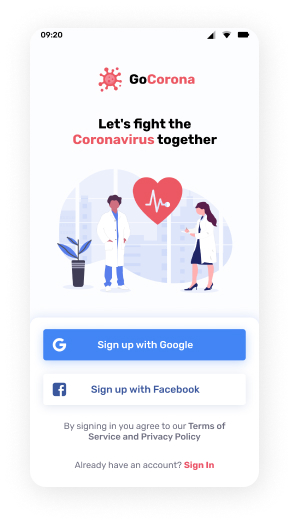
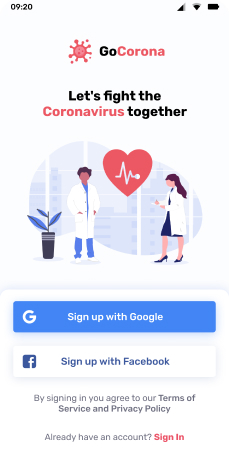
new decor

diff --git a/css/style.css b/css/style.css
@@ -89,6 +89,7 @@ body._lock {
 	line-height: 126%;	
 	font-feature-settings: 'pnum' on, 'lnum' on;
 	color: #000000;
+	margin-bottom: 12px;
 }
 .text {
 	font-family: 'Rubik';
@@ -99,6 +100,7 @@ body._lock {
 	letter-spacing: 0.08em;
 	font-feature-settings: 'pnum' on, 'lnum' on;
 	color: #616161;
+	margin-bottom: 24px;
 }
 
 /* ------------------------- */
@@ -254,12 +256,6 @@ body._lock {
 	min-width: 403px;
 	max-width: 403px;
 }
-.take-care__title {
-	margin-bottom: 12px;
-}
-.take-care__text {
-	margin-bottom: 24px;
-}
 .take-care__image {
 	z-index: 5;
 	text-align: center;
@@ -316,13 +312,179 @@ body._lock {
 	.take-care__container::before {
 		display: none;
 	}
-}
-@media (max-width:480px) {
 	.take-care__info {
 		min-width: 100%;
 		max-width: 100%;
 	}
+}
+@media (max-width:480px) {
 	.take-care__container {
-		padding: 84px 10px 54px 10px;
+		padding: 84px 10px 45px 10px;
+	}
+}
+
+/* -------------------------------- */
+
+.stay-safe {
+	padding: 135px 0 94px 0;
+}
+.stay-safe__container {
+	display: flex;
+	align-items: center;
+	justify-content: space-around;
+	gap: 71px;
+}
+
+.stay-safe__app {
+	position: relative;
+	margin-left: 71px;
+}
+.stay-safe__app img {
+	filter: drop-shadow(2px 4px 32px rgba(0, 0, 0, 0.12));
+	border-radius: 16px;
+}
+.stay-safe__decor {
+	position: absolute;
+	background: #EC5863;
+	border-radius: 30px;
+}
+.stay-safe__decor-1 {
+	width: 77px;
+	height: 77px;
+	left: -39px;
+	bottom: -27px;
+}
+.stay-safe__decor-2 {
+	width: 147px;
+	height: 147px;
+	left: -71px;
+	top: -56px;
+}
+.stay-safe__decor-3 {
+	width: 77px;
+	height: 77px;
+	right: -38px;
+	bottom: 80px;
+}
+.stay-safe__image-shadow {
+	position: absolute;
+	width: 206px;
+	height: 27px;
+	left: 12px;
+	bottom: -12px;
+	background: rgba(240, 240, 240, 0.49);
+	border-radius: 16px;
+}
+.stay-safe__info {
+	min-width: 279px;
+	max-width: 379px;
+}
+@media (max-width: 767px) {
+	.stay-safe__container {
+		flex-wrap: wrap;
+		flex-direction: column;
+		gap: 93px;
+	}
+	.stay-safe__app {
+		position: relative;
+		margin-left: 0px;
+
+	}
+	.stay-safe__info {
+		order: -1;
+		align-self: flex-start;
+		min-width: 100%;
+		max-width: 100%;
+	}
+	.stay-safe {
+		padding: 0 0 75px 0;
+	}
+}
+
+/* ------------------------- */
+
+.experts {
+	padding: 103px 0 116px 0;
+}
+.experts__container {
+}
+.experts__table {
+	margin: 0 auto;
+	position: relative;
+	width: 654px;
+	height: 117px;
+	display: flex;
+	justify-content: space-evenly;
+	align-items: center;
+	box-shadow: 0px 2px 24px rgba(88, 126, 236, 0.15);
+	border-radius: 16px;
+	background-color: #FFF;
+}
+.experts__decor {
+	position: absolute;
+	background: #EC5863;
+	z-index: -1;
+}
+.experts__decor-1 {
+	width: 65.75px;
+	height: 65.75px;
+	left: -24px;
+	bottom: -24px;
+	border-radius: 16px;
+	transform: rotate(-30deg);
+}
+.experts__decor-2 {
+	width: 96.96px;
+	height: 96.96px;
+	left: 209px;
+	top: -42px;
+	border-radius: 30px;
+	transform: rotate(105deg);
+}
+.experts__decor-3 {
+	width: 127.47px;
+	height: 127.47px;
+	right: -55px;
+	top: 0px;
+	border-radius: 30px;
+	transform: rotate(-30deg);
+}
+.table__title {
+	font-family: 'Rubik';
+	font-weight: 700;
+	font-size: 36px;
+	line-height: 43px;
+	letter-spacing: 0.14em;
+	font-feature-settings: 'pnum' on, 'lnum' on;
+	color: #EC5863;
+	margin-bottom: 5px;
+}
+.table__subtitle {
+	font-family: 'Rubik';
+	font-weight: 700;
+	font-size: 11px;
+	line-height: 13px;
+	text-align: center;
+	letter-spacing: 0.37em;
+	text-transform: uppercase;
+	font-feature-settings: 'pnum' on, 'lnum' on;
+	color: #000000;
+}
+.experts__main {
+	margin-top: 79px;
+	display: flex;
+	align-items: center;
+	gap: 70px;
+}
+.experts__video {
+	width: 100%;
+}
+@media (max-width: 767px) {
+	.experts__main {
+		flex-wrap: wrap;
+	}
+	.experts__video {
+		padding: 35px 0;
+		margin: 0 auto;
 	}
 }

diff --git a/index.html b/index.html
@@ -72,6 +72,65 @@
 					</div>
 				</div>
 			</section>
+			<section>
+				<div class="stay-safe">
+					<div class="stay-safe__container">
+						<div class="stay-safe__app">
+							<div class="stay-safe__decor stay-safe__decor-1"></div>
+							<div class="stay-safe__decor stay-safe__decor-2"></div>
+							<div class="stay-safe__decor stay-safe__decor-3"></div>
+							<div class="stay-safe__image-shadow"></div>
+							<img src="img/stay-safe-app.jpg" alt="phone app screen">
+						</div>
+						<div class="stay-safe__info">
+							<h1 class="stay-safe__title title">
+								Stay safe with <span class="red-text"> GoCorona.</span>
+							</h1>
+							<p class="stay-safe__text text">
+								24x7 Support and user friendly mobile platform to bring healthcare to your fingertips. Signup and be a part of the new health culture.
+							</p>
+							<button class="button red">Features</button>
+						</div>
+					</div>
+				</div>
+			</section>
+			<section>
+				<div class="experts">
+					<div class="experts__container">
+						<div class="experts__table table">
+							<div class="table__users">
+								<p class="table__title">2m</p>
+								<p class="table__subtitle">Users</p>
+							</div>
+							<div class="table__countries">
+								<p class="table__title">78</p>
+								<p class="table__subtitle">Countries</p>
+							</div>
+							<div class="table__experts">
+								<p class="table__title">10,000+</p>
+								<p class="table__subtitle">Medical experts</p>
+							</div>
+							<div class="experts__decor experts__decor-1"></div>
+							<div class="experts__decor experts__decor-2"></div>
+							<div class="experts__decor experts__decor-3"></div>
+						</div>
+						<div class="experts__main">
+							<div class="experts__info">
+								<h1 class="experts__title title">
+									Talk to<span class="blue-text"> experts.</span>
+								</h1>
+								<p class="experts__text text">
+									24x7 Support and user friendly mobile platform to bring healthcare to your fingertips. Signup and be a part of the new health culture.
+								</p>
+								<button class="button red">Features</button>
+							</div>
+							<div class="experts__video">
+								<iframe width="521" height="217" src="https://www.youtube.com/embed/5DGwOJXSxqg" title="YouTube video player" frameborder="0" allow="accelerometer; autoplay; clipboard-write; encrypted-media; gyroscope; picture-in-picture" allowfullscreen></iframe>
+							</div>
+						</div>
+					</div>
+				</div>
+			</section>
 		</main>
 		<footer class="footer">
 			footer
